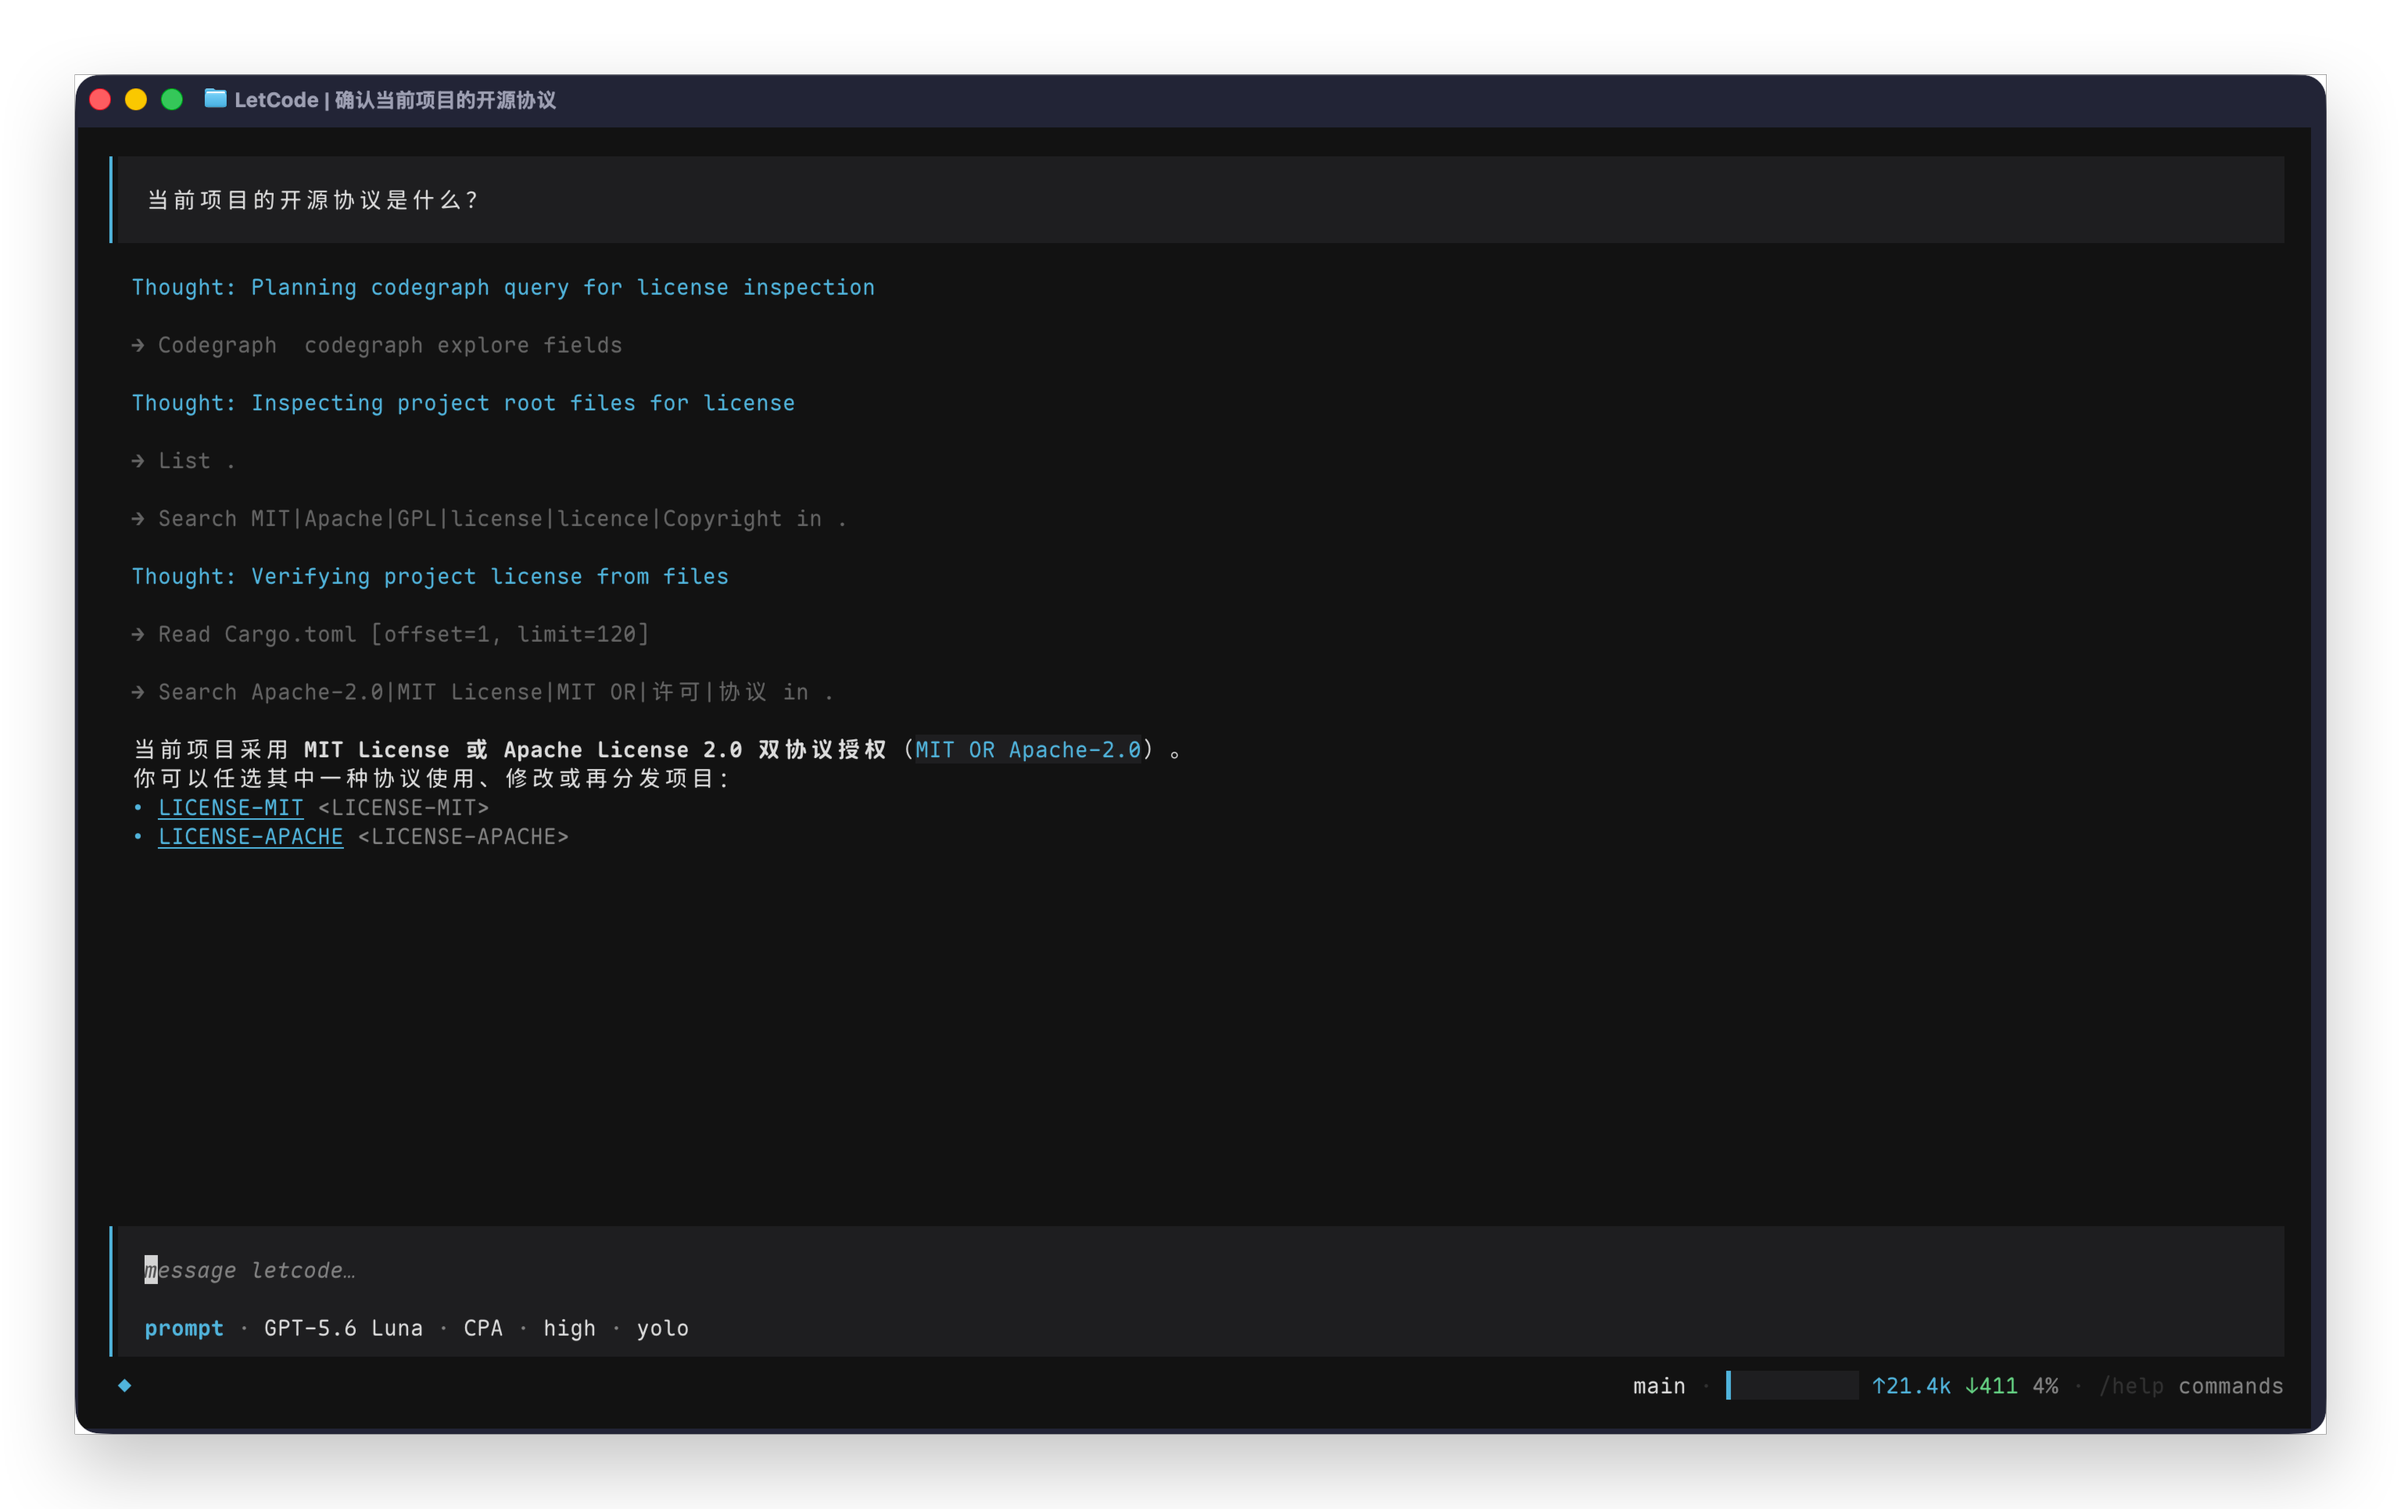
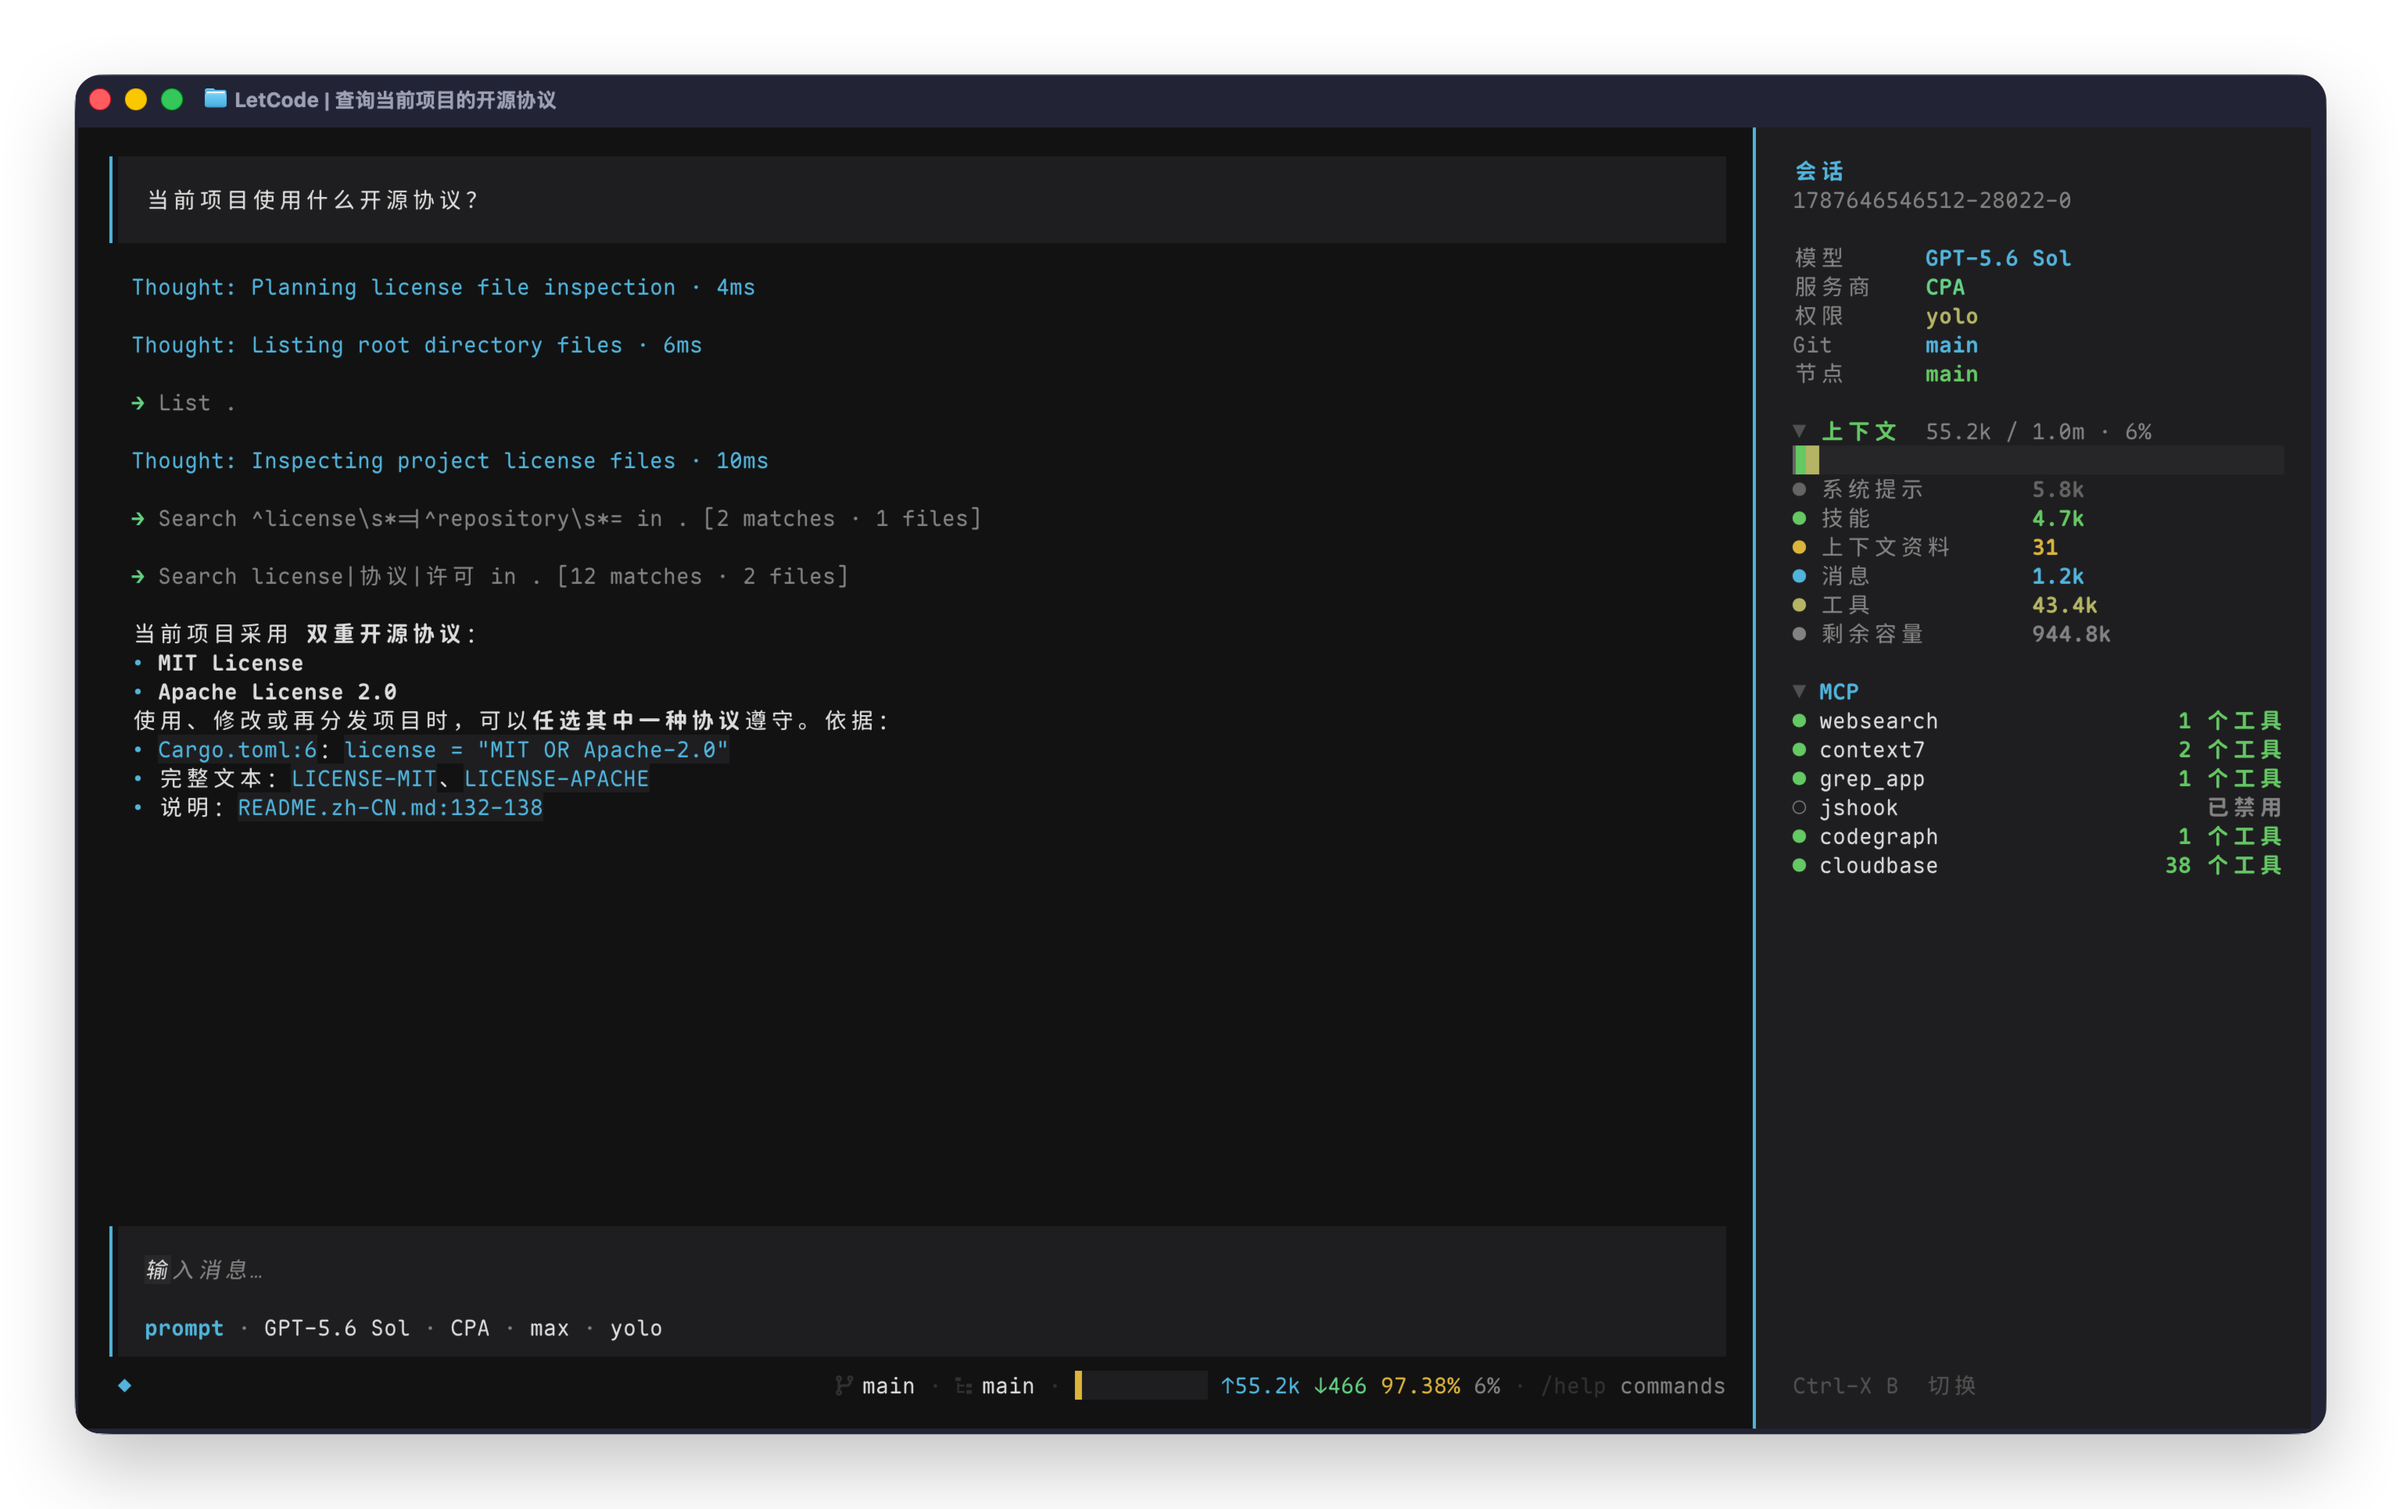
docs: refresh bilingual README

diff --git a/README.md b/README.md
@@ -65,54 +65,101 @@ The TUI supports English (`en`) and Simplified Chinese (`zh-CN`). Use `/language
 ~/.config/letcode/letcode.toml
 ```
 
-Minimal example:
+Configuration example:
 
 ```toml
+# Optional; defaults to the first provider in the file.
 active_provider = "openai"
+# Optional; defaults to false.
+fast_mode = false
 
+# Optional; all values below have defaults.
 [global]
-# Optional runtime limits:
 # max_iterations = 64
 # max_tool_calls = 128
+# tool_timeout_secs = 60
 sessions_dir = "sessions"
 log_file = "logs/combined.log"
 
-[permissions]
-mode = "default" # safe/default/auto/yolo; legacy solo remains accepted when reading
-# auto = same Ask set as default, but a sticky reviewer expert answers approvals
+# Optional; by default, recent context is preserved according to the active model's input budget.
+[global.compaction]
+# preserve_recent_tokens = 12000
 
-# Optional reviewer model route used by permission mode "auto"
-# [agents.reviewer]
+# Optional; values below are the defaults.
+[global.retry]
+enabled = true
+max_attempts = 50
+max_recovery_attempts = 3
+initial_delay_secs = 1
+backoff_multiplier = 2.0
+jitter_secs = 1
+
+# Optional; defaults to default. Values: safe | default | auto | yolo.
+[permissions]
+mode = "default" # solo remains accepted as a yolo alias
+
+# Optional; choose a default route and per-invocation allowed routes for an expert.
+# [agents.explorer]
 # provider = "openai"
 # model = "gpt-5.5"
-# Optional provider-qualified routes selectable per delegation:
 # allowed_models = ["openai/gpt-5.5"]
+# The same shape applies to fixer, oracle, designer, librarian, general, and reviewer.
 
-# Optional local execution policy. Reviewed read tools may declare parallel support;
-# all other tools stay exclusive unless their handler explicitly opts in.
+# Optional; this can only narrow parallelism declared by a tool itself.
 [tools.parallelism]
 # "fs__read" = "parallel"
 # "web__fetch" = "exclusive"
 
+# Optional local MCP server.
+# [mcp.example_local]
+# type = "local"
+# command = ["/path/to/mcp-server", "--stdio"]
+# environment = { FOO = "bar" }
+# enabled = true
+# timeout = 5000
+
+# Optional remote MCP server; OAuth is not currently supported.
+# [mcp.example_remote]
+# type = "remote"
+# url = "https://example.com/mcp"
+# headers = { Authorization = "Bearer ..." }
+# enabled = true
+# timeout = 10000
+
+# Required: configure at least one provider with at least one model.
 [providers.openai]
+# Optional; OPENAI_API_KEY may be used instead.
 api_key = "YOUR_API_KEY"
+# Optional for the OpenAI provider; defaults to https://api.openai.com/v1.
 base_url = "https://api.openai.com/v1"
-protocol = "responses" # responses/completions
+# Optional for the OpenAI provider, where it defaults to responses; required for other providers.
+protocol = "responses" # responses | completions
+# Optional; defaults to the first model configured for this provider.
 default_model = "gpt-5.5"
 
+# Required: each provider needs at least one model; every field inside the model is optional.
 [providers.openai.models."gpt-5.5"]
 display_name = "GPT-5.5"
+# protocol = "completions" # overrides the provider protocol
 # context_window = 400000
-# effective_input_limit_tokens = 256000 # optional provider/model route input budget
-supports_tools = true
-parallel_tool_calls = true # optional; defaults to true, set false to require sequential tool calls
-supports_reasoning = true
-reasoning_effort = "medium" # model default
-# Optional: restrict selectable levels and TUI cycle order.
-# Supported values: none, minimal, low, medium, high, xhigh, max
+# effective_input_limit_tokens = 256000
+# max_output_tokens = 128000
+supports_tools = true # default: true
+parallel_tool_calls = true # default: true
+supports_reasoning = true # default: true
+reasoning_effort = "medium"
+# Optional; restricts selectable reasoning levels and the TUI cycle order.
 reasoning_efforts = ["none", "low", "medium", "high", "max"]
-reasoning_summary = "auto"
-text_verbosity = "medium"
+reasoning_summary = "auto" # auto | concise | detailed
+text_verbosity = "medium" # low | medium | high
+# temperature = 0.2
+# top_p = 1.0
+
+# Optional model-level prompt cache.
+# [providers.openai.models."gpt-5.5".prompt_cache]
+# enabled = true
+# retention = "in_memory" # in_memory | 24h
+# namespace = "openai"
 ```
 
 Provider API keys and base URLs can also come from environment variables named from the provider, for example `OPENAI_API_KEY` / `OPENAI_BASE_URL`; for a provider named `compat`, use `COMPAT_API_KEY` / `COMPAT_BASE_URL`.
@@ -120,10 +167,6 @@ Provider API keys and base URLs can also come from environment variables named f
 Relative `sessions_dir` and `log_file` paths are resolved relative to the config file directory.
 
 Optional Langfuse/OpenTelemetry tracing is off by default. Enable it with `LETCODE_LANGFUSE_ENABLED=true`, and set `LANGFUSE_PUBLIC_KEY`, `LANGFUSE_SECRET_KEY`, and optional `LANGFUSE_HOST` (or the same variables in a local `.env`). Missing credentials leave tracing disabled without stopping the agent.
-
-## Sessions
-
-Session transcripts are stored as append-only JSONL under `sessions_dir` and can be restored later. In the TUI, use `/tree` to browse history, `/undo` / `/redo` to move between completed user turns, and `/help` for all local commands. The line-based CLI supports `/tree` as a read-only listing; `/undo` and `/redo` require the TUI.
 
 ## Changelog
 
